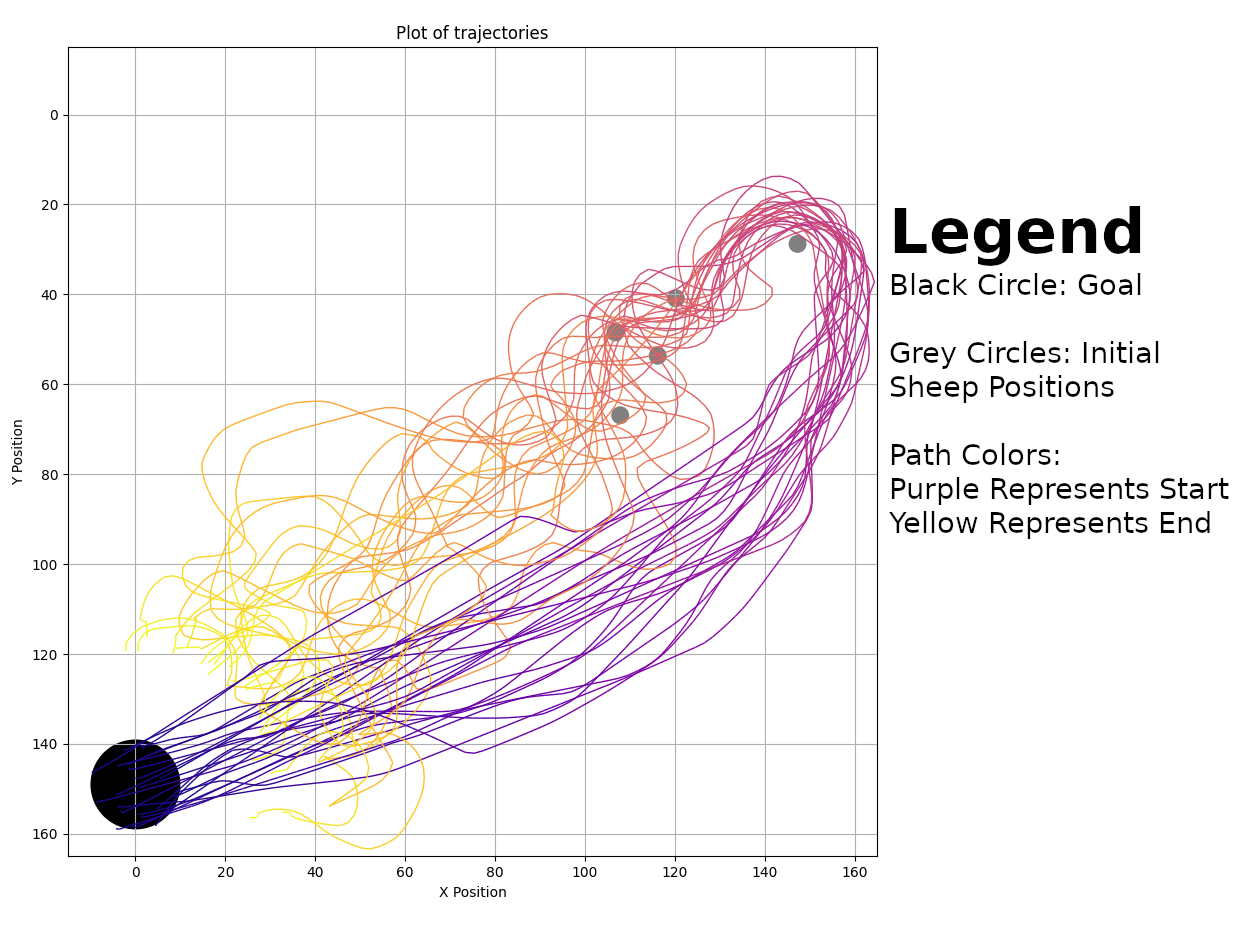
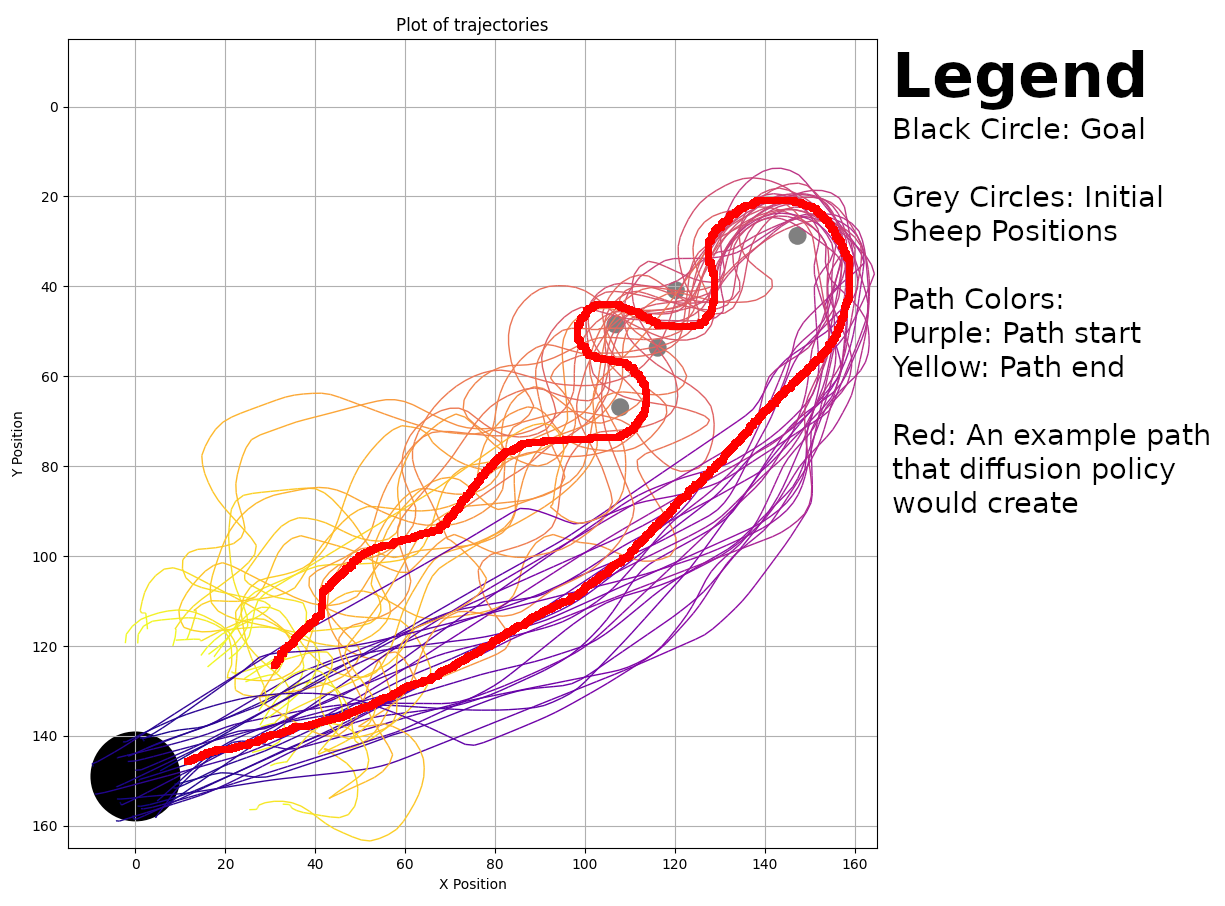
pygame section of shepherd

diff --git a/_portfolio/shepherd.md b/_portfolio/shepherd.md
@@ -11,17 +11,17 @@ sidebar:
   - section: "Video Demo"
     url: /portfolio/shepherd/#video-demo
   - section: "Shepherding and Diffusion Policy"
-    url: /portfolio/shepherd/#Shepherding-and-Diffusion-Policy
+    url: /portfolio/shepherd/#shepherding-and-diffusion-policy
   - section: "Pygame Simulation"
-    url: /portfolio/shepherd/#Pygame-Simulation
+    url: /portfolio/shepherd/#pygame-simulation
   - section: "Inputs and Observations"
-    url: /portfolio/shepherd/#Inputs-and-Observations
+    url: /portfolio/shepherd/#inputs-and-observations
   - section: "Training Analysis"
-    url: /portfolio/shepherd/#Training-Analysis
+    url: /portfolio/shepherd/#training-analysis
   - section: "Limitations and Future Work"
-    url: /portfolio/shepherd/#Limitations-and-Future-Work
+    url: /portfolio/shepherd/#limitations-and-future-work
   - section: "References"
-    url: /portfolio/shepherd/#References
+    url: /portfolio/shepherd/#references
 ---
 ## This page is still in progress
 
@@ -39,10 +39,19 @@ This is where diffusion policy comes into play. By sampling a distribution of hu
 
 ![24 paths]({{ site.url }}{{ site.baseurl }}/assets/images/shepherd/24.png)
 
-This picture displays 24 shepherding trials. Each trial has the same initial goal and sheep positions, with slightly varying shepherd positions. A diffusion policy model trained on this image  would attempt to herd the sheep by following one of the paths.
+This picture displays 24 shepherding trials. Each trial has the same initial goal and sheep positions, with slightly varying shepherd positions. A diffusion policy model trained on this image  would attempt to herd the sheep by following the red path. However, the model would fail to herd sheep with different initial positions, since there is no data for that. To create a generalized model, I would also need to use data with varying initial sheep positions.
 
 
 ## Pygame Simulation
+In order to collect data to train the model, and to evaluate the model, I needed a simulation environment. I decided to use PyGame since it satisfies following requirements:
+- Easy to modify
+- Allows user input (keyboard or controller)
+- Can save the data (Using CSV files and images)
+- Has easily tunable parameters
+- Can display the game state visually
+
+I used the [Strombom Model](https://royalsocietypublishing.org/doi/10.1098/rsif.2014.0719){:target="_blank"} to control the sheep. Most of the parameters are the same as the ones described in the paper, but I changed some to make herding easier. The resulting pygame window is shown below. The game uses extremely simply graphics, with each object represented by a circle. The sheep and shepherd have their headings represented by a triangle.
+![pygame]({{ site.url }}{{ site.baseurl }}/assets/images/shepherd/pygame.png)
 
 ## Inputs and Observations
 
@@ -55,4 +64,4 @@ This picture displays 24 shepherding trials. Each trial has the same initial goa
 [Strombom Model](https://royalsocietypublishing.org/doi/10.1098/rsif.2014.0719){:target="_blank"}\
 [Nick Morales Diffusion Policy repository](https://github.com/ngmor/diffusion_policy/tree/main)
 
-Thanks to Matt Elwin, Lin Liu, Ishani Narwankar, Abhishek Sankar, and Courtney Smith for guidance and collaboration in this project
+Thanks to Matt Elwin, Lin Liu, Abhishek Sankar, Ishani Narwankar, and Courtney Smith for guidance and collaboration in this project
